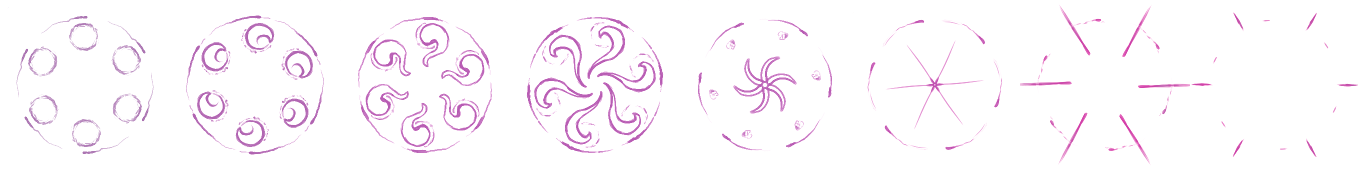
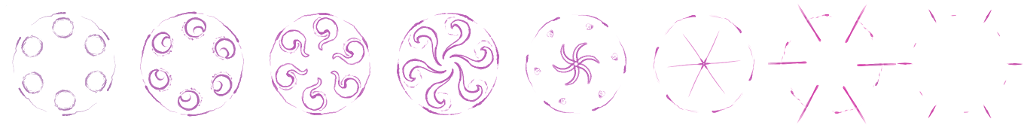
Animation time adjustments. Working on attack effects.

diff --git a/src/gameworld.py b/src/gameworld.py
@@ -107,12 +107,14 @@ class GameWorld(object):
         stun = 10
         cooldown = 50
         position = [0,0]
-        
+        '''
         temp_eff = pygame.image.load(os.path.join('data', 'curse_green_effect.png'))
         eff_sprite = components.Appearance(temp_eff.convert_alpha(), 114, 128, [8], [47])
         eff_sprite.play_animation_till_end = True
         eff_sprite.play_once = True
         effect_ID = self.create_entity((eff_sprite, ))
+        '''
+        effect_ID = self.create_attack_effect('curse_green_effect.png', 114, 128, 8, 47)
         curse_AI = ai.Level1_curse(self, 0, self.event_manager)
         curse_ID = self.create_entity((curse_AI, ))
         curse_AI.entity_ID = curse_ID
@@ -137,29 +139,23 @@ class GameWorld(object):
         stun = 27
         cooldown = 0
         position = [0,0]
-        #Effect for this curse is set in ai.py
-        '''
-        temp_eff2 = pygame.image.load(os.path.join('data', 'curse_pink_effect.png'))
-        eff_sprite2 = components.Appearance(temp_eff2.convert_alpha(), 170, 170, [8], [40])
-        eff_sprite2.play_animation_till_end = True
-        eff_sprite2.play_once = True
-        effect_ID2 = self.create_entity((eff_sprite2, ))
-        '''
+        # Other effect for this curse is set in ai.py
+        effect_ID2 = self.create_attack_effect('tentakel.png', 60, 100, 9, 60)
         curse_AI2 = ai.Level2_curse(self, 0, self.event_manager)
         curse_ID2 = self.create_entity((curse_AI2, ))
         curse_AI2.entity_ID = curse_ID2
         #Create projectile image
-        proj_image = "tentakel.png"
-        proj_anim_list = [5, 3]
+        proj_image = "pink_proj.png"
+        proj_anim_list = [2, 2]
         proj_anim_time_list = [47, 10]
-        proj_width = 100
-        proj_height = 100
-        speed = 1
+        proj_width = 32
+        proj_height = 32
+        speed = 2
         proj_life = 33 
         particle_emitter = components.Attack(self, damage, stun, cooldown, position,
                                              1, proj_image, proj_anim_list, proj_anim_time_list,
                                              proj_width, proj_height, proj_life,
-                                             speed, [0, 0], 15)#, effect_ID2)
+                                             speed, [0, 0], 15, effect_ID2)
         particle_emitter.piercing = True
         attack_list = list()
         attack_list.append(particle_emitter)
@@ -277,19 +273,22 @@ class GameWorld(object):
                 if "att_3_pierce" in tile_properties:
                     att3_pierce = tile_properties["att_3_pierce"] == "1"
                 #Create projectile image
+                effect_ID = None
                 if ai_ID == "pink_boss":
                     proj_image = "pink_proj.png"
                     proj_anim_list = [2, 2]
                     proj_anim_time_list = [50, 13]
                     proj_width = 32
                     proj_height = 32
+                    effect_ID = self.create_attack_effect('tentakel2.png',
+                                                      200, 200, 8, 49)
                 if damage3: #Attack exists
                     particle_emitter3 = self.create_attack(position, damage3, stun3,
                                                           cooldown3, proj3, proj_image,
                                                           proj_anim_list, proj_anim_time_list,
                                                           proj_width, proj_height,
                                                           proj_life3, proj_speed3, [0,0],
-                                                          spread3)
+                                                          spread3, effect_ID)
                     particle_emitter3.piercing = att3_pierce
                     attack_list.append(particle_emitter3)
                 

diff --git a/src/ai.py b/src/ai.py
@@ -730,11 +730,11 @@ class Level2_curse(AI):
                             self.counter.append(self.time_till_attack)
                             #Create animation, so player knows, where attack is casted
                             temp_eff = pygame.image.load(os.path.join('data', 'curse_pink_effect.png'))
-                            eff_sprite = components.Appearance(temp_eff.convert_alpha(), 170, 170, [8], [self.time_till_attack])
+                            eff_sprite = components.Appearance(temp_eff.convert_alpha(), 128, 128, [8], [self.time_till_attack])
                             eff_sprite.play_animation_till_end = True
                             eff_sprite.play_once = True
                             #eff_sprite.self_destruct = True
-                            eff_sprite.rect.center = (new_position)
+                            eff_sprite.rect.center = (new_position[0], new_position[1] + 42)
                             effect_ID = self.world.create_entity((eff_sprite, ))
                             self.sleep = self.sleep_reset
                             
@@ -749,7 +749,7 @@ class Level2_curse(AI):
             for i in range(len(to_remove)):
                 self.counter.pop(to_remove[i])
                 position = self.cast_pos.pop(i)
-                position = (position[0], position[1] + 24)
+                position = (position[0], position[1] + 12)
                 self.cast_curse(position)
                          
     def cast_curse(self, position):
